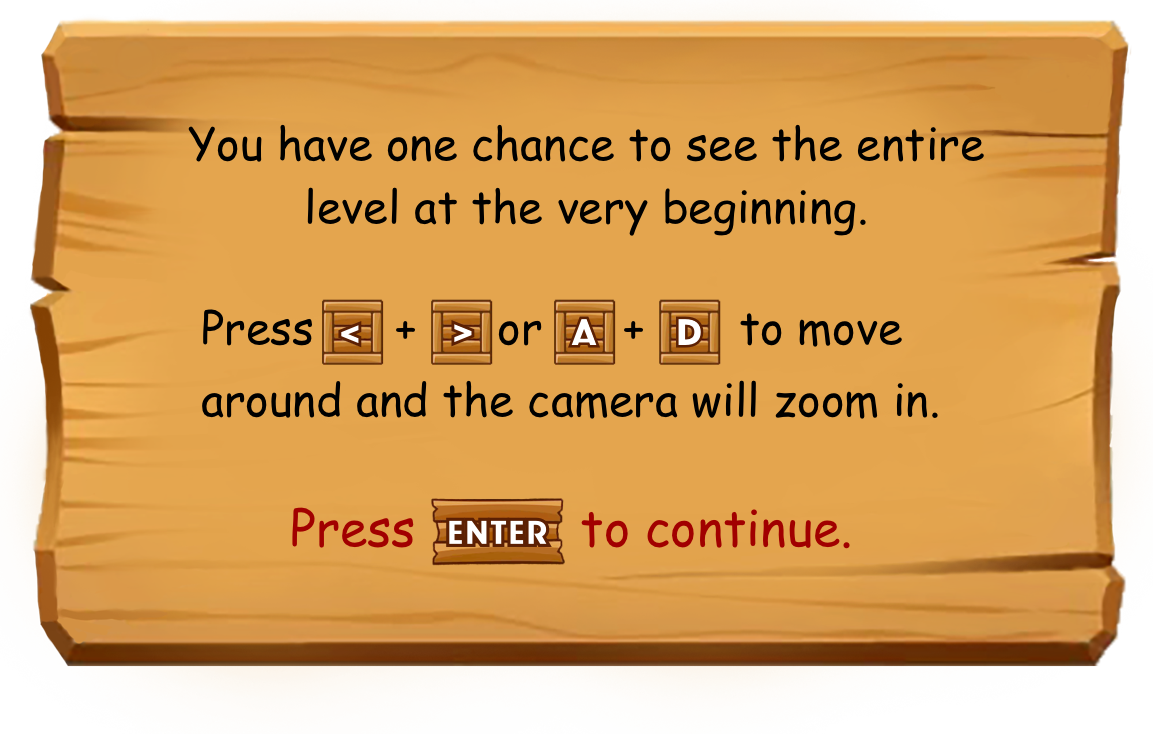
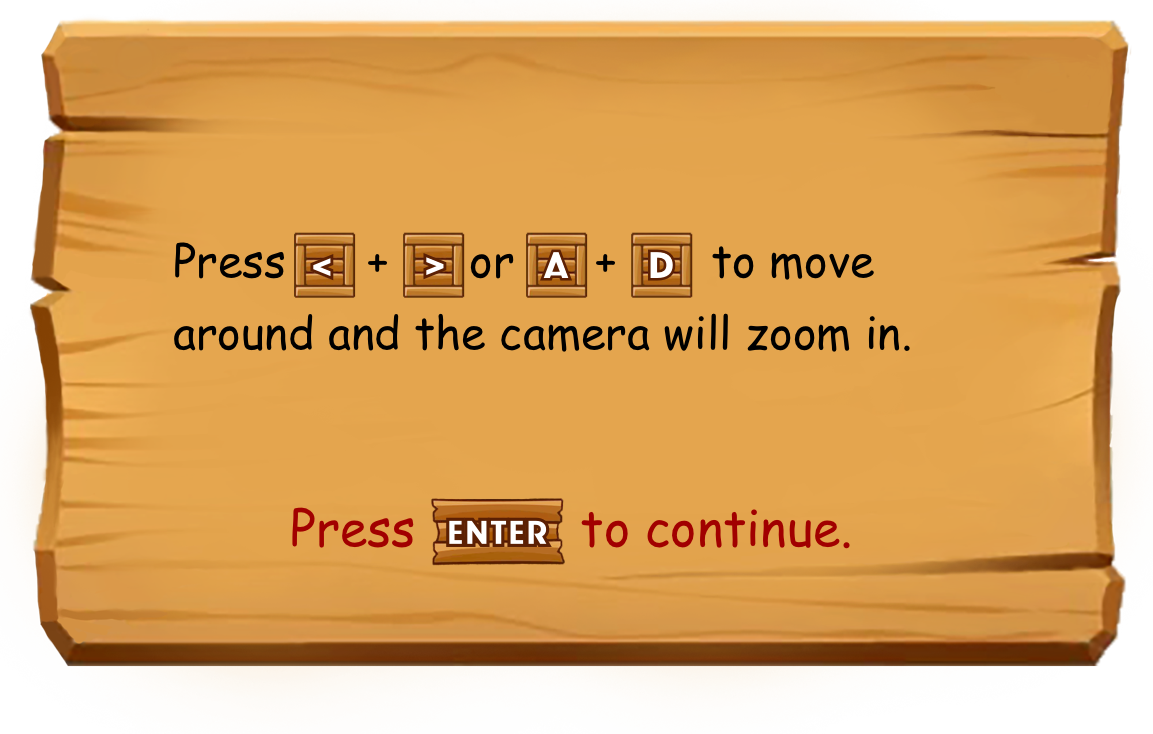
all tutorials

Changed region(s): [[0.1249, 0.2698, 0.8118, 0.5695], [0.1561, 0.1798, 0.8742, 0.2398]]

diff --git a/Aiden/core/src/edu/cornell/gdiac/physics/GDXRoot.java b/Aiden/core/src/edu/cornell/gdiac/physics/GDXRoot.java
@@ -447,11 +447,11 @@ public class GDXRoot extends Game implements ScreenListener {
 		int levels = 21;
 		controllers = new WorldController[levels]; ////
 		current = 0;
-		for(int i = 0; i<4; i++){
+		for(int i = 0; i<5; i++){
 			controllers[i] = new TutorialController(i);
 		}
 		
-		for(int i=4;i<levels;i++){
+		for(int i=5;i<levels;i++){
 			if (i == 7 || i == 9 || i ==11 || i == 12){
 					controllers[i] = new TutorialController(i);
 				}else{

diff --git a/Aiden/core/src/edu/cornell/gdiac/physics/scene/AssetFile.java b/Aiden/core/src/edu/cornell/gdiac/physics/scene/AssetFile.java
@@ -241,7 +241,7 @@ public class AssetFile {
 		files.put("WATER", "shared/water.png");
 		files.put("CHECKPOINT_FLAG", "shared/flag.png");
 		
-		tutorialInstructions=new TextureRegion[18];
+		tutorialInstructions=new TextureRegion[19];
 		numberTextures=new TextureRegion[20];
 		for (int i=0; i<tutorialInstructions.length; i++){
 			files.put("TUTORIAL_INST"+i, "platform/tutorial/instruction_"+i+".png");

diff --git a/Aiden/core/src/edu/cornell/gdiac/physics/TutorialController.java b/Aiden/core/src/edu/cornell/gdiac/physics/TutorialController.java
@@ -44,6 +44,9 @@ class TutorialController extends AidenController{
 		case 12:
 			this.messages = parseJson("json/tutorial8message.json");
 			break;
+		case 4:
+			this.messages = parseJson("json/tutorial9message.json");
+			break;
 		default:
 			this.messages = parseJson("json/tutorial1message.json");
 		}
